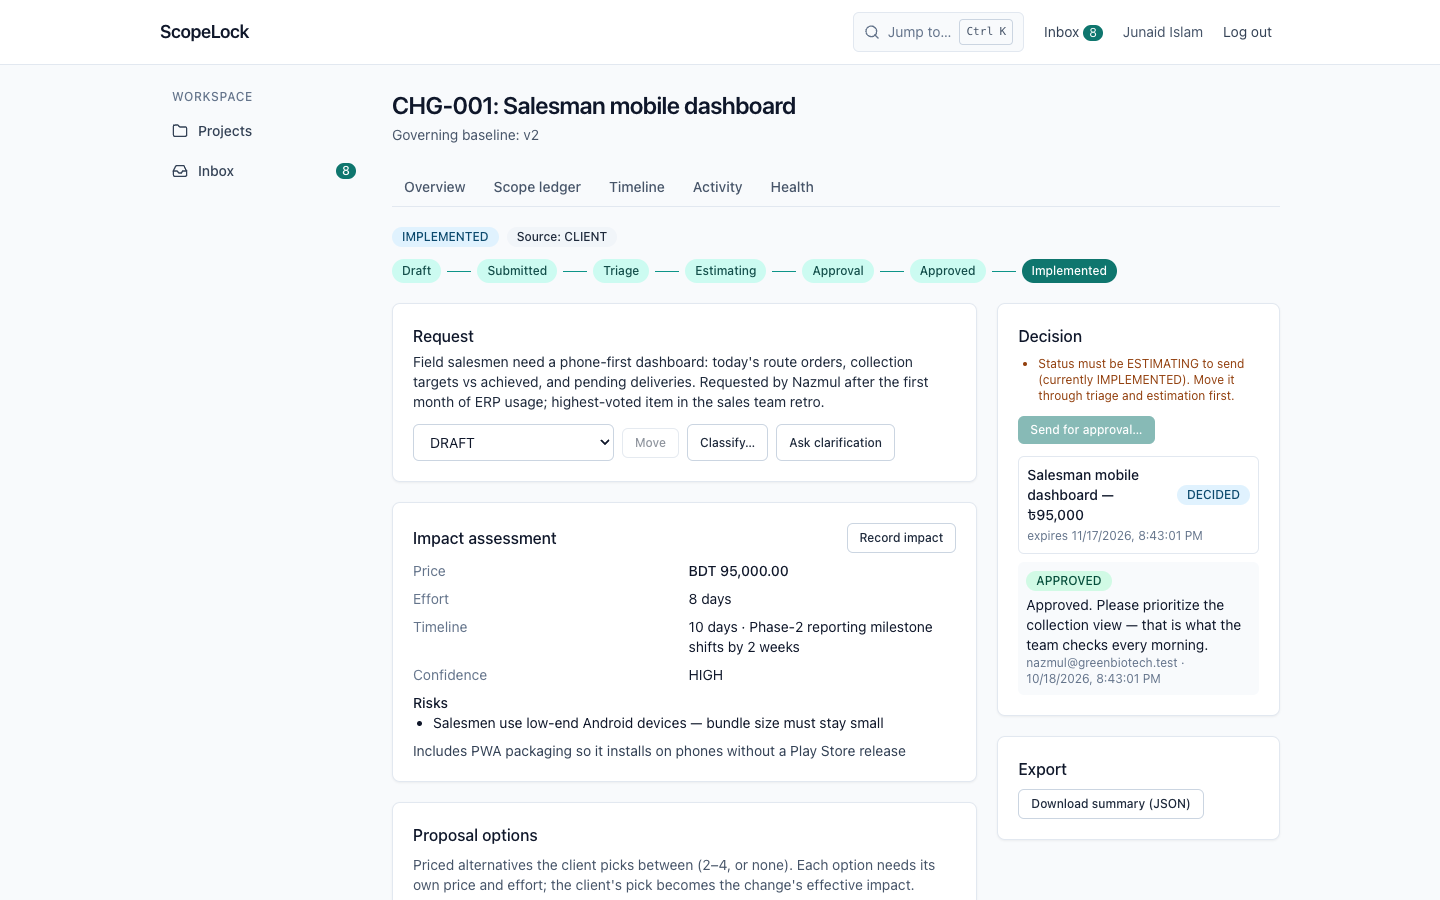
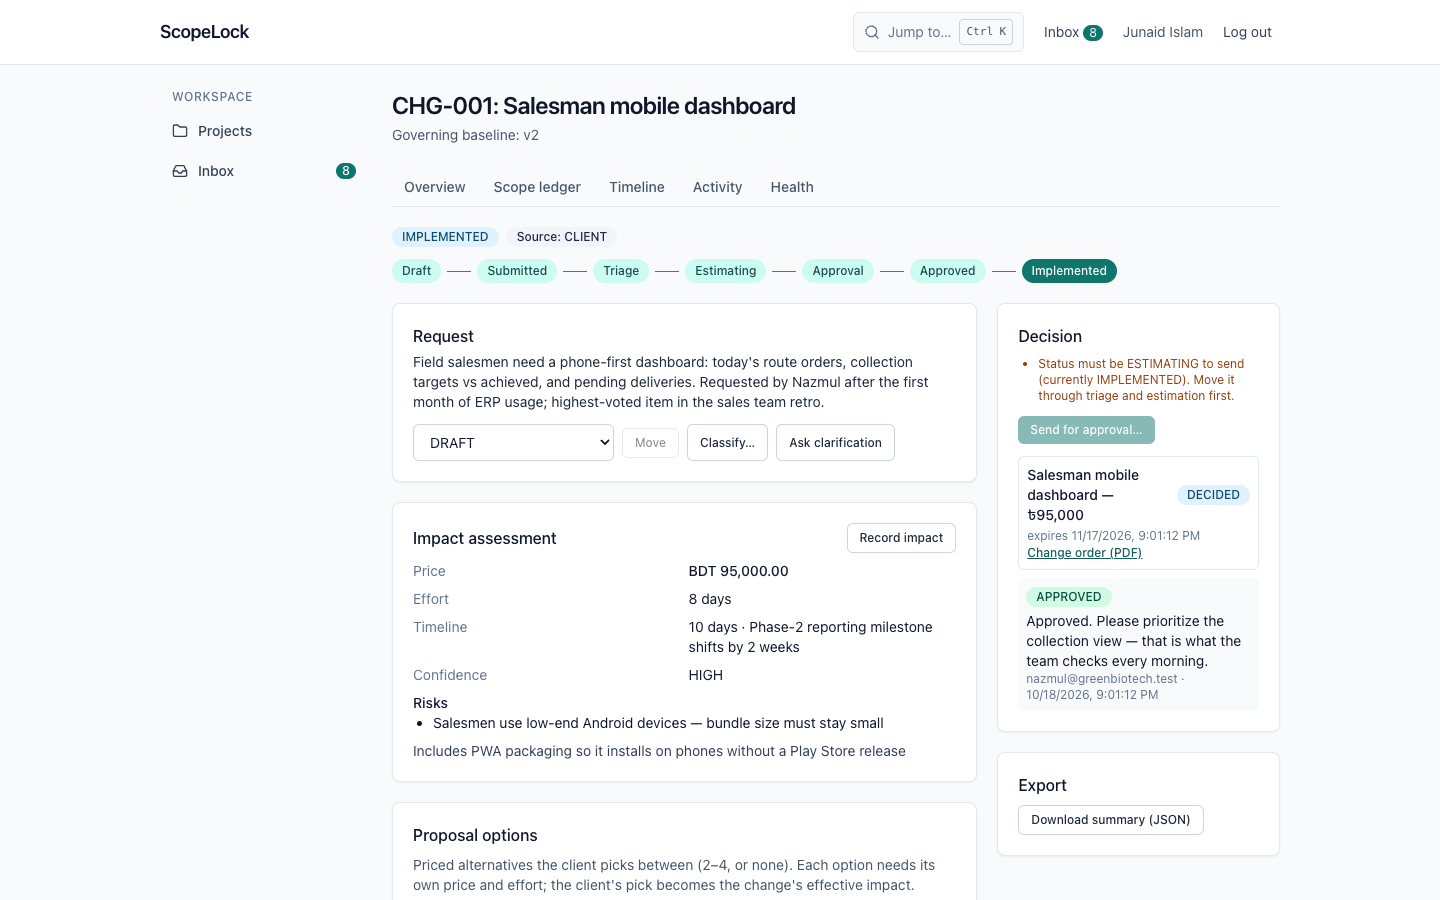
docs: change-order changelog, tour, seed, screenshots

Changed region(s): [[0.6875, 0.5911, 0.875, 0.7778], [0.6875, 0.84, 0.8438, 0.9333]]

diff --git a/prisma/seed-portfolio.ts b/prisma/seed-portfolio.ts
@@ -567,6 +567,7 @@ async function main(): Promise<void> {
 
   // 2) Haat — change sent, awaiting the client's decision (inbox + review link).
   let haatReviewUrl = "";
+  let certificateApprovalId = "";
   if (!(await hasChanges("haat-marketplace"))) {
     const slug = "haat-marketplace";
     const ch = await createChange(slug, {
@@ -977,6 +978,7 @@ async function main(): Promise<void> {
         "seed options decision",
         [201],
       );
+      certificateApprovalId = body.approval.id;
       await sweepOutbox(store);
       console.log("showcase: quickfood options decided (Reduced picked, ledger prices the pick)");
     }
@@ -1087,6 +1089,9 @@ async function main(): Promise<void> {
   }
   if (intakeUrl) {
     console.log(`  Public intake form (Forgeline, no login needed): ${intakeUrl}`);
+  }
+  if (certificateApprovalId) {
+    console.log(`  Decision certificate (QuickFood options, no login needed): ${env.WEB_URL}/verify/${certificateApprovalId}`);
   }
 
   // Inbound mailbox for Forgeline (resumable): forward mail to post it as email intake.

diff --git a/README.md b/README.md
@@ -333,6 +333,10 @@ DATABASE_URL=postgresql://localhost:5432/scopelock AUTH_SECRET=$(openssl rand -h
 - **Review step-up** (workspace settings → project Policy tab) — optional
   email code + typed-name confirmation on review links, recorded with each
   decision. An identity check, not an e-signature.
+- **Change Order PDF + decision certificate** (review page, decided
+  packages) — deterministic PDF with the package checksum and a QR/URL to
+  a public verify page (`/verify/:approvalId`) that recomputes the
+  checksum and shows match/mismatch from the package contents only.
 - **Intake forms** (project → Intake, staff only) — revocable public links
   (embeddable via iframe) that accept requests without an account.
   Submissions land SUBMITTED with source `INTAKE_FORM`, flagged “unverified

diff --git a/CHANGELOG.md b/CHANGELOG.md
@@ -78,6 +78,11 @@ All notable changes to ScopeLock are documented here. Format follows
   full-name confirmation recorded with each decision. Configurable per
   workspace with per-project inherit/on/off pins; explicitly not an
   e-signature.
+- Change Order PDF + decision certificate: deterministic server-side PDF
+  for decided packages (package checksum, per-decision record, QR/URL to
+  the public verify page) plus `/verify/:approvalId`, which recomputes
+  the checksum server-side and shows match/mismatch from the package
+  contents only.
 
 ## [0.1.0] - 2026-10-16
 
